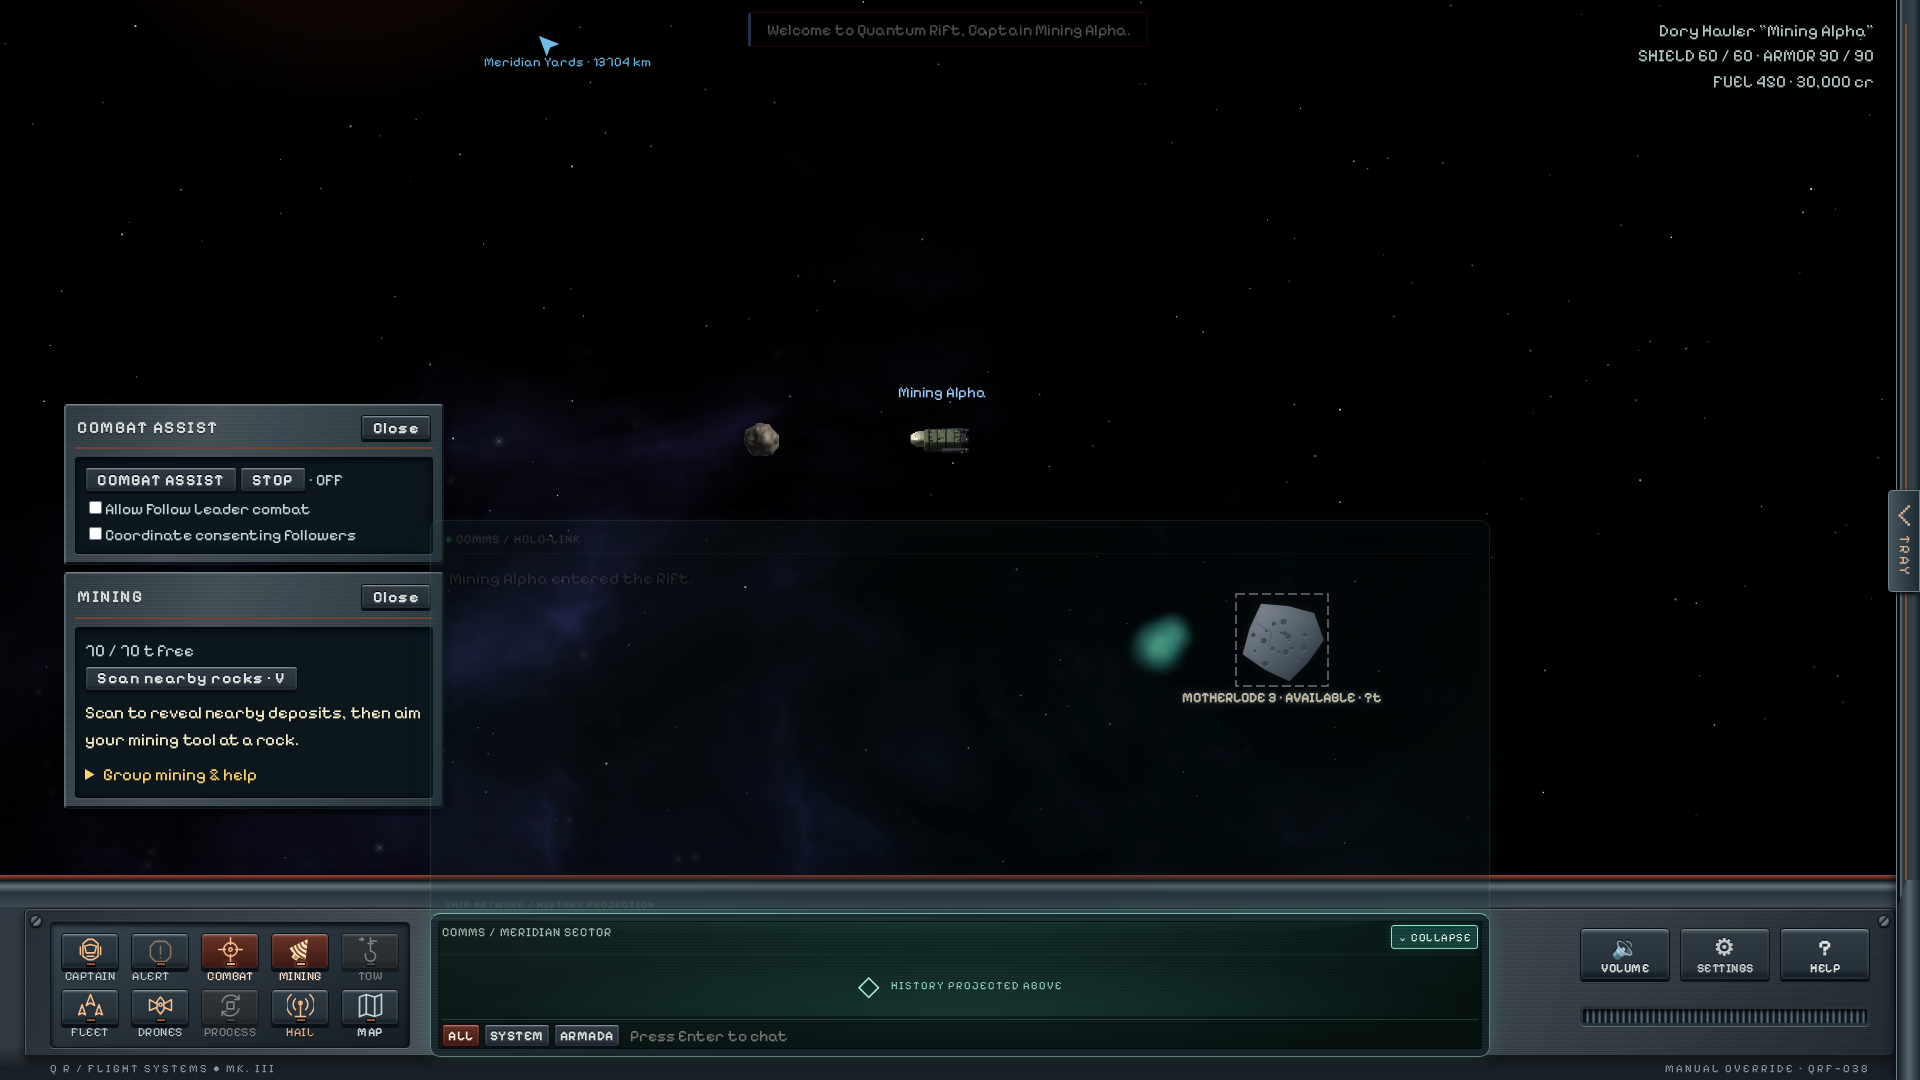
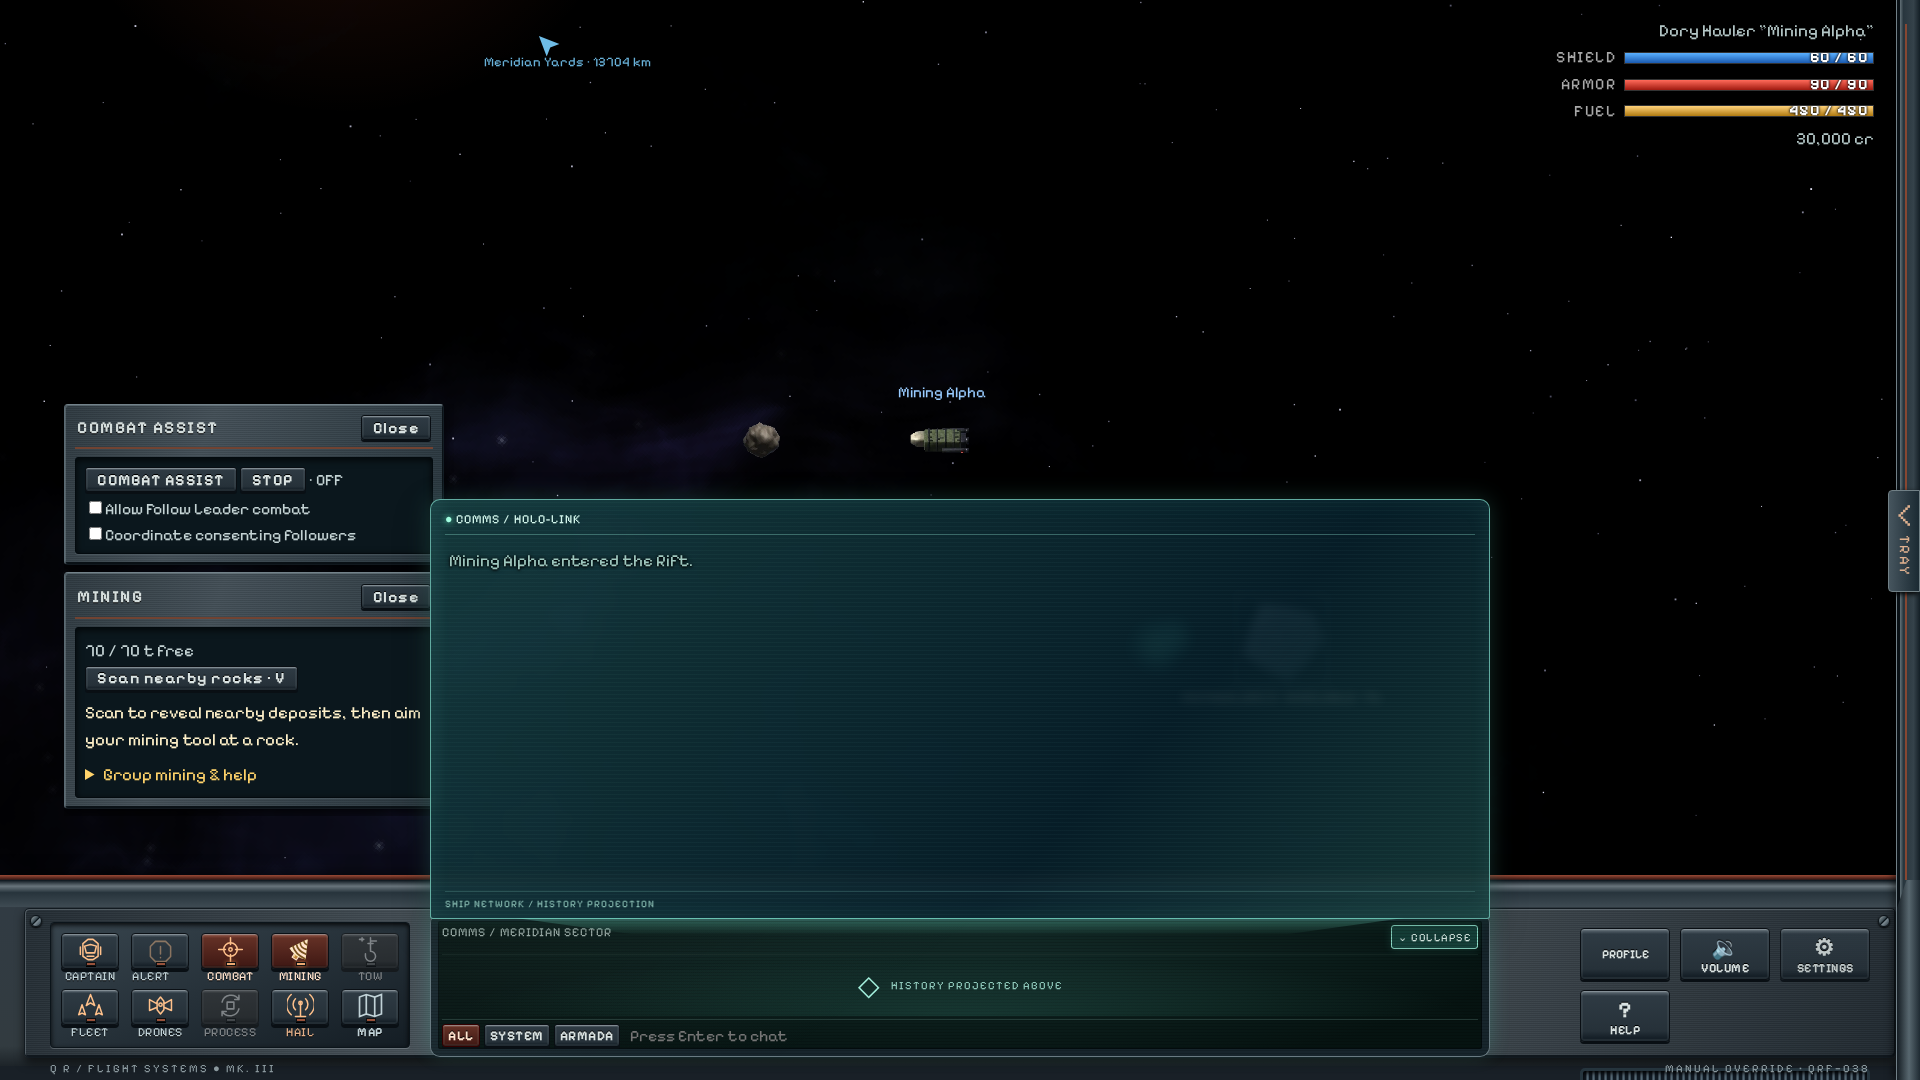
Release 3.3.3 — Trinity Stable Beta (#77)
* chore(release): prepare 3.3.3 beta

* docs: refresh save generator release version

---------

diff --git a/README.md b/README.md
@@ -1,6 +1,6 @@
 # Quantum Rift
 
-![Friend-hosted universe login with separate captain name and password fields](docs/screenshots/friend-host-login.png)
+![Quantum Rift login with music-timed ship formations](docs/screenshots/login-formation.png)
 
 **Quantum Rift is currently in beta and under ongoing development. All features are subject to change.**
 
@@ -8,19 +8,20 @@
 
 **A space trading and combat game in your browser.**
 
-3.3.2 adds a friend-hosted universe alongside local Solo and dedicated online
-play. The flight viewport uses ExcaliburJS, and dedicated online authority runs
-inside Nakama 3.41.0 with PostgreSQL. See the [release notes](docs/RELEASE-3.3.2.md),
-[friend-hosting guide](docs/HOSTING.md) and [dedicated hosting guide](docs/NAKAMA.md).
-Solo and friend games need no Nakama or PostgreSQL service. Dedicated hosting
-requires operator configuration; the download does not deploy those services.
+**3.3.3 — Trinity Stable Beta** adds cockpit and sidebar
+refinements, music-timed login flybys, quieter default effects, planetary colony
+scenes and selectable captain portraits. See the [release notes](docs/RELEASE-3.3.3.md).
 
 Fly a ship through a living galaxy of more than 200 star systems. Trade between worlds, take jobs and bounties, mine asteroids, fight pirates, build up a Personal Station, and lead a fleet of crewed wingmates. Play alone, or host a server where friends team up in an Armada.
 
 The flight viewport uses [ExcaliburJS](https://excaliburjs.com/) for its scene,
 camera, input and native sprite entities. The shared game simulation and HTML cockpit remain in place; engine scripts are
-included locally. Dedicated online authority runs inside Nakama. Friend games run
-one authoritative server on the host’s computer; Solo retains its separate local database.
+included locally. Dedicated online authority runs inside Nakama 3.41.0 with PostgreSQL.
+Friend games run one authoritative server on the host’s computer; Solo retains its
+separate local database. Solo and friend games need no Nakama or PostgreSQL service.
+Dedicated hosting requires operator configuration; the download does not deploy
+those services. See [friend hosting](docs/HOSTING.md) and
+[dedicated hosting](docs/NAKAMA.md).
 
 ## Features
 
@@ -28,6 +29,7 @@ one authoritative server on the host’s computer; Solo retains its separate loc
 
 - Travel between distinctive star systems, rendered planets and stations, from busy trade routes to the remote Eventide frontier.
 - Meet traders, convoys, patrols, pirates and rival captains with their own personalities and careers.
+- Visit illustrated worlds and see colonies grow through three settlement stages.
 - Discover faction stories, spaceport questlines and a main story hidden in the Rift.
 - Hail passing ships for conversation, assistance and encounters. Incoming calls wait until you choose to answer.
 
@@ -64,10 +66,10 @@ one authoritative server on the host’s computer; Solo retains its separate loc
 
 - Solo mode includes pause, save slots and save-file import and export. A newcomer truce limits ambient hostility while you establish your station; missions and deliberate aggression can still lead to combat.
 - Remap controls, adjust interface scale, use a colour-blind palette, or play with a gamepad or touch controls.
+- Choose a captain portrait through **PROFILE** while flying or landed (**ME** in compact flight layouts). Your face appears in public profiles and player hails.
 - Resize the Tray, minimap and tabbed menu to suit your screen. Keep browsing positions and filters, and pin one next objective without hiding your other missions.
 - Login music starts on page load when your browser allows autoplay; otherwise it starts on your first interaction. Saved mute and music levels still apply.
 - Buy from the local Faction Store while landed in faction space, or visit every faction’s store at your own Personal Station. The store shows your standing with the selected faction and updates it after purchases.
-- Login music starts on page load when your browser allows autoplay; otherwise it starts on your first interaction. Saved mute and music levels still apply.
 - Discover five radio stations through exploration and special jobs, with 32 owner-supplied songs and a full-album Spacepop tour reward. Stations shuffle their music except the Super-Idol album, which plays in order.
 - Run locally in your browser with the project’s pinned Node.js runtime. Built releases need no package installation or compilation.
 
@@ -139,6 +141,18 @@ Save imports remain Solo-only.
 
 ![Landed service menu with system traffic behind it](docs/screenshots/responsive-landed.png)
 
+**Growing colonies**
+
+![A level-five colony on Far Prime with its settlement-stage illustration](docs/screenshots/colony-stage3.png)
+
+**Captain portraits**
+
+![Captain profile with selectable portrait cards and the saved portrait preview](docs/screenshots/profile-chooser.png)
+
+**Hails and caller portraits**
+
+![Docking-control hail displaying the caller portrait over the landed colony view](docs/screenshots/docking-hail.png)
+
 **Galaxy map**
 
 ![In-game galaxy map menu](docs/screenshots/responsive-map.png)
@@ -150,3 +164,7 @@ Save imports remain Solo-only.
 **Local faction store**
 
 ![The local Concord store with live faction standing while landed in Concord space](docs/screenshots/faction-store-local.png)
+
+**Friend-hosted universe**
+
+![Friend-hosted universe login with separate captain name and password fields](docs/screenshots/friend-host-login.png)

diff --git a/docs/RELEASE-3.3.3.md b/docs/RELEASE-3.3.3.md
@@ -1,0 +1,47 @@
+# Quantum Rift 3.3.3 — Trinity Stable Beta
+
+## Cockpit and sidebar
+
+- Read larger cockpit text, expand chat above the console and open ship and captain details from the helmet or **I**.
+- Distinguish combat targeting from patrol scans: red takes priority over orange, and reduced-motion mode retains the color without blinking.
+- Keep automatic radar square as the sidebar changes size. Retain separate radar and menu sizing preferences and reachable controls at narrow widths and different interface scales.
+- Receive landing feedback without repeated copies of the same pending refusal. Server-side landing checks remain authoritative.
+
+## Login and audio
+
+- Watch login traffic follow the actual playing theme, including staged formations. Flybys respect reduced motion and visibility; they do not advance through suspended audio as though it were playing.
+- Start new effects settings at 50%. Existing saved settings, explicit zero and mute remain unchanged, with separate music and interface controls.
+- Hear a softer purchase signal for confirmed purchases, including buying a ship into the hangar. Sales, cancelled confirmations and disabled controls do not trigger it.
+
+## Worlds and captain portraits
+
+- Use 908 planetary illustrations across 227 scene sets. Each set includes an unsettled scene and three colony stages: level 1, levels 2–3 and levels 4–5.
+- Retain explicit scene mappings for 179 current worlds, with deterministic biome choices for future unmapped worlds. Original Earth and station images remain unchanged; stations retain their separate live presentation.
+- Use 70 portraits, including explicit identities for all 30 named rivals. Named rivals are excluded from the selectable generic pool.
+- Open **PROFILE** in flight or while landed to preview and save a captain portrait; the flight button reads **ME** in compact layouts. Only the authenticated captain's selection can change, and the chooser confirms saving after the server acknowledges it.
+- Show captain faces in public profiles and hails. Archived transmissions retain their captured caller identity after a ship leaves or despawns.
+
+## Download and update
+
+Download and extract the complete ZIP. Close the previous server before starting the new
+copy, and preserve existing `data/`, `solo-data/` and `friend-data/` folders.
+Use the [pinned Node 27 runtime](TYPESCRIPT-RUNTIME.md). Complete releases include
+compiled modules and bundled libraries; source checkouts require `npm ci` and
+`npm run build`.
+
+The beta Solo save generator retains custom captain, credits, ship and station
+controls. Save import/export and pause remain Solo-only. Local saves do not
+automatically migrate to Nakama or synchronize between backends.
+
+Solo and friend games need no Nakama or PostgreSQL. Dedicated online hosting
+still requires separately configured Nakama 3.41.0, PostgreSQL, keys, backups and
+network security. Ordinary startup starts the static web host, not those services.
+See [friend hosting](HOSTING.md) and [native hosting](NAKAMA.md).
+
+Friend games run only while the host server is open and require a reachable
+address. They provide no automatic NAT traversal, router/firewall changes, host
+migration or peer-to-peer simulation. Use a trusted LAN/VPN, or configure HTTPS/WSS
+before exposing sign-in publicly.
+
+The game remains in beta. Regression checks cover selected fixtures and browser
+layouts, not every device, performance level, random seed or production workload.

diff --git a/docs/HAILING.md b/docs/HAILING.md
@@ -12,7 +12,7 @@ The inbox includes **Allow player hails**. Existing Captain privacy also applies
 
 Hail windows show a framed caller portrait with the same static scanline effect as landed artwork. Thirty named captains have individual portraits. Other NPC portraits are selected deterministically from faction pools; opening the same call does not reroll the face. Archived NPC transmissions retain their captured portrait after the sender leaves. Closing the window or returning to the inbox clears the caller image.
 
-Open **PROFILE** from the flight command bar or landed world header to choose your captain portrait. The preview is not saved until you select **SAVE PORTRAIT** and receive server confirmation. Your choice appears in public captain profiles and player hails, and uses the existing Solo or native online account storage. Named NPC portraits are not selectable. Escape closes the chooser and returns focus to the button that opened it.
+Open **PROFILE** from the flight command bar or landed world header to choose your captain portrait; compact flight controls label the button **ME**. The preview is not saved until you select **SAVE PORTRAIT** and receive server confirmation. Your choice appears in public captain profiles and player hails, and uses the existing Solo or native online account storage. Named NPC portraits are not selectable. Escape closes the chooser and returns focus to the button that opened it.
 
 ## NPC dialogue and pacing
 

diff --git a/CHANGELOG.md b/CHANGELOG.md
@@ -2,6 +2,15 @@
 
 Every release, newest first. The main story is left out on purpose.
 
+### 3.3.3 — Trinity Stable Beta
+
+- Refine cockpit text, chat, captain details and combat/patrol alerts, with responsive layouts and reduced-motion behavior.
+- Keep automatic radar square, retain sidebar sizing preferences and improve landing feedback without changing server landing authority.
+- Time login ship flybys to the playing theme. Reduce the fresh effects default to 50% while preserving saved levels, explicit zero and mute; add a softer purchase sound for purchases, not sales or cancelled confirmations.
+- Add 908 planetary illustrations across 227 scene sets, with three settlement stages selected from authoritative colony levels. Preserve 179 existing world mappings and keep station artwork separate.
+- Add 70 captain portraits, including 30 named rivals. Choose an available generic portrait through PROFILE; retain server-authoritative saves, public profiles and caller identity in live and archived hails.
+- Refresh the beta Solo save generator catalog for 3.3.3. See the [release notes](docs/RELEASE-3.3.3.md) for update and hosting limits.
+
 ### 3.3.2 — Friend games and native online hosting
 
 - Add explicit friend-game launchers with one host-owned shared world, separate password captains and independent private saves; retain Solo-only pause and import/export.

diff --git a/test/Save Generator/README.md b/test/Save Generator/README.md
@@ -1,6 +1,6 @@
 # Quantum Rift Save Generator
 
-Create custom **Solo-mode** saves for Quantum Rift 3.3.2. Choose a player name,
+Create custom **Solo-mode** saves for Quantum Rift 3.3.3. Choose a player name,
 starting credits, ship, personal station location and station tier. The game does
 not need to be running. The generator never edits your installed game or saves.
 `Example Captain.rift.json` is an optional ready-made T5 test save.
@@ -52,7 +52,7 @@ station map after importing, even though the captain can use the station. The
 accompanying game change repairs import ownership and rejects another captain's
 claimed location. Use a fresh Solo data folder for isolated tests on older builds.
 
-The catalog matches 3.3.2; future game versions may need a refreshed catalog. Online
+The catalog matches 3.3.3; future game versions may need a refreshed catalog. Online
 servers do not accept Solo save imports.
 
 ## Command line
